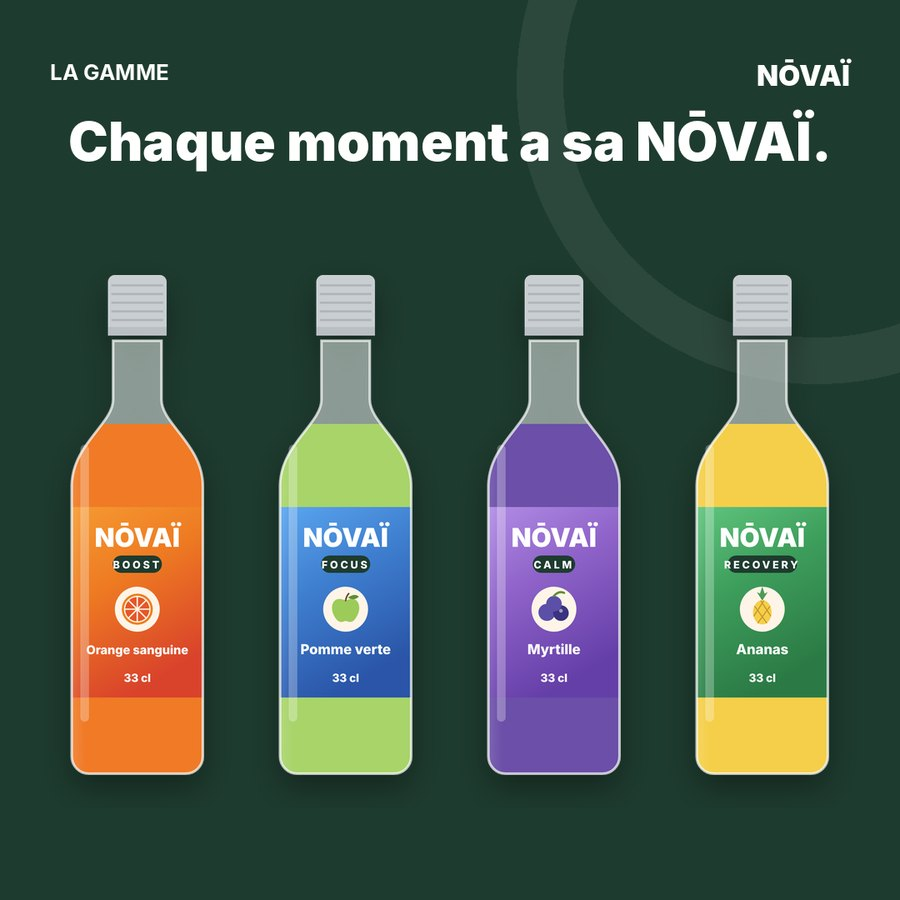
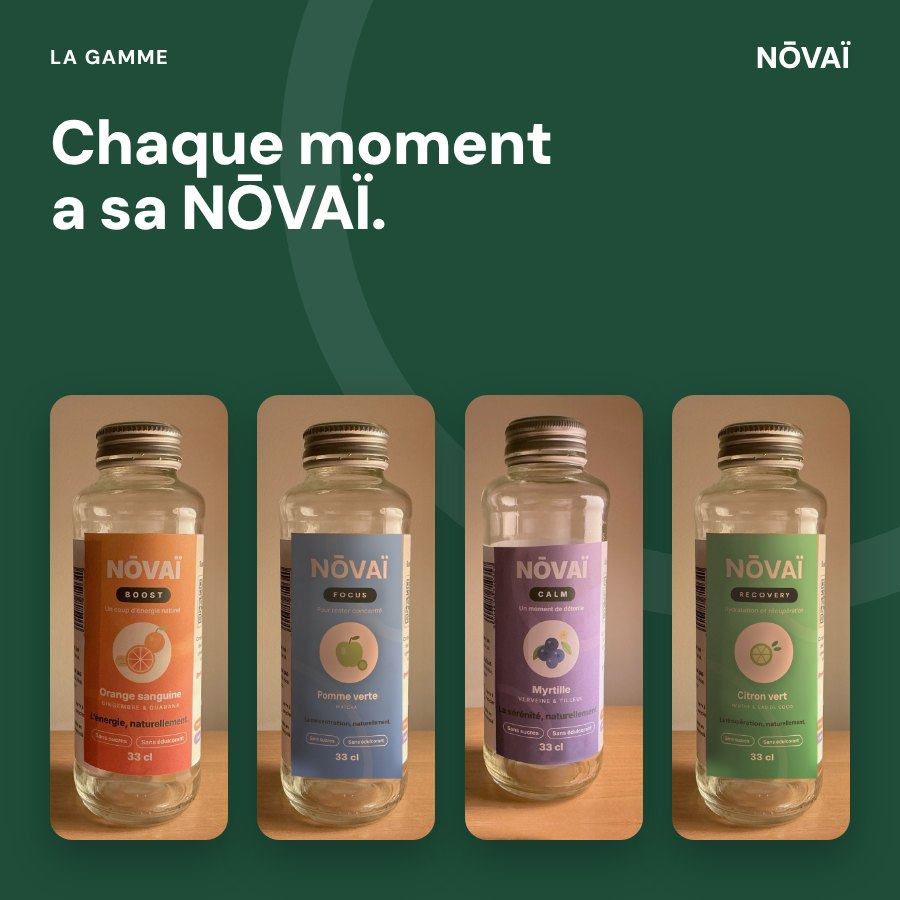
Photos des vraies bouteilles à la place des illustrations
Les 2 prototypes photographiés (BOOST Orange sanguine, CALM Myrtille) et les 8 autres
références déclinées sur la même photo ; publications Instagram refaites avec ces photos.

Claude-Session: https://claude.ai/code/session_01WrZG4h9xQXLHYbkowRCxUC

diff --git a/index.html b/index.html
@@ -46,6 +46,7 @@
   .hero .sub { font-weight: 600; font-size: .76rem; letter-spacing: .16em; opacity: .92; margin-top: 6px; }
   .hero .slogan { font-weight: 800; font-size: 1.12rem; margin-top: 14px; color: var(--vert); }
   .bottle { width: 118px; height: auto; display: block; filter: drop-shadow(0 10px 14px rgba(0,0,0,.18)); }
+  img.bphoto { aspect-ratio: 2 / 5; object-fit: cover; border-radius: 12px; background: #e9e2d8; }
   .chips { display: flex; flex-wrap: wrap; gap: 8px; margin-top: 16px; position: relative; z-index: 1; }
   .chip { background: rgba(255,255,255,.18); border: 1px solid rgba(255,255,255,.5); color: #fff; font-weight: 600; font-size: .8rem; padding: 6px 12px; border-radius: 999px; }
 
@@ -1118,32 +1119,7 @@ function fruitSVG(f, cx, cy, r) {
 
 function bottleSVG(p, sfx = "") {
   const L = LINES[p.line];
-  const gid = "g" + p.id + sfx;
-  return `<svg class="bottle" viewBox="0 0 120 300" role="img" aria-label="Bouteille NŌVAÏ ${L.name} ${esc(p.flavour)}">
-    <defs>
-      <linearGradient id="${gid}" x1="0" y1="0" x2=".4" y2="1"><stop offset="0" stop-color="${L.c[0]}"/><stop offset=".45" stop-color="${L.c[1]}"/><stop offset="1" stop-color="${L.c[2]}"/></linearGradient>
-      <linearGradient id="glass${gid}" x1="0" x2="1"><stop offset="0" stop-color="#fff" stop-opacity=".45"/><stop offset=".25" stop-color="#fff" stop-opacity="0"/><stop offset=".8" stop-color="#000" stop-opacity="0"/><stop offset="1" stop-color="#000" stop-opacity=".18"/></linearGradient>
-      <clipPath id="clip${gid}"><path d="M46 44h28v34c0 14 24 26 24 50v156a10 10 0 0 1-10 10H32a10 10 0 0 1-10-10V128c0-24 24-36 24-50z"/></clipPath>
-    </defs>
-    <rect x="43" y="6" width="34" height="34" rx="4" fill="#C9CED1"/>
-    <g stroke="#AEB4B8" stroke-width="1.2">${[12, 17, 22, 27, 32].map(y => `<line x1="45" y1="${y}" x2="75" y2="${y}"/>`).join("")}</g>
-    <rect x="43" y="36" width="34" height="5" fill="#B9BFC3"/>
-    <g clip-path="url(#clip${gid})">
-      <rect x="0" y="40" width="120" height="260" fill="#EAF0EE" opacity=".55"/>
-      <rect x="0" y="92" width="120" height="210" fill="${p.liquid}"/>
-      <rect x="22" y="140" width="76" height="110" fill="url(#${gid})"/>
-      <rect x="0" y="40" width="120" height="260" fill="url(#glass${gid})"/>
-    </g>
-    <path d="M46 44h28v34c0 14 24 26 24 50v156a10 10 0 0 1-10 10H32a10 10 0 0 1-10-10V128c0-24 24-36 24-50z" fill="none" stroke="rgba(255,255,255,.7)" stroke-width="1.5"/>
-    <text x="60" y="163" text-anchor="middle" font-family="Inter, sans-serif" font-weight="900" font-size="15" fill="#fff">NŌVAÏ</text>
-    <rect x="${60 - (L.name.length * 3.9 + 9) / 2}" y="168" width="${L.name.length * 3.9 + 9}" height="10" rx="5" fill="#1E3B2F"/>
-    <text x="60" y="175.6" text-anchor="middle" font-family="Inter, sans-serif" font-weight="800" font-size="6" letter-spacing="1.4" fill="#fff">${L.name}</text>
-    <circle cx="60" cy="199" r="13" fill="#FFF4E8"/>
-    ${fruitSVG(p.fruit, 60, 199, 9)}
-    <text x="60" y="225" text-anchor="middle" font-family="Inter, sans-serif" font-weight="800" font-size="${p.flavour.length > 13 ? 7 : 8}" fill="#fff">${esc(p.flavour)}</text>
-    <text x="60" y="241" text-anchor="middle" font-family="Inter, sans-serif" font-weight="800" font-size="6.5" fill="#fff">33 cl</text>
-    <rect x="27" y="104" width="5" height="160" rx="2.5" fill="#fff" opacity=".28"/>
-  </svg>`;
+  return `<img class="bottle bphoto" src="images/bouteilles/${p.id}.jpg" alt="Bouteille NŌVAÏ ${L.name} ${esc(p.flavour)}" loading="lazy">`;
 }
 
 function render() {
